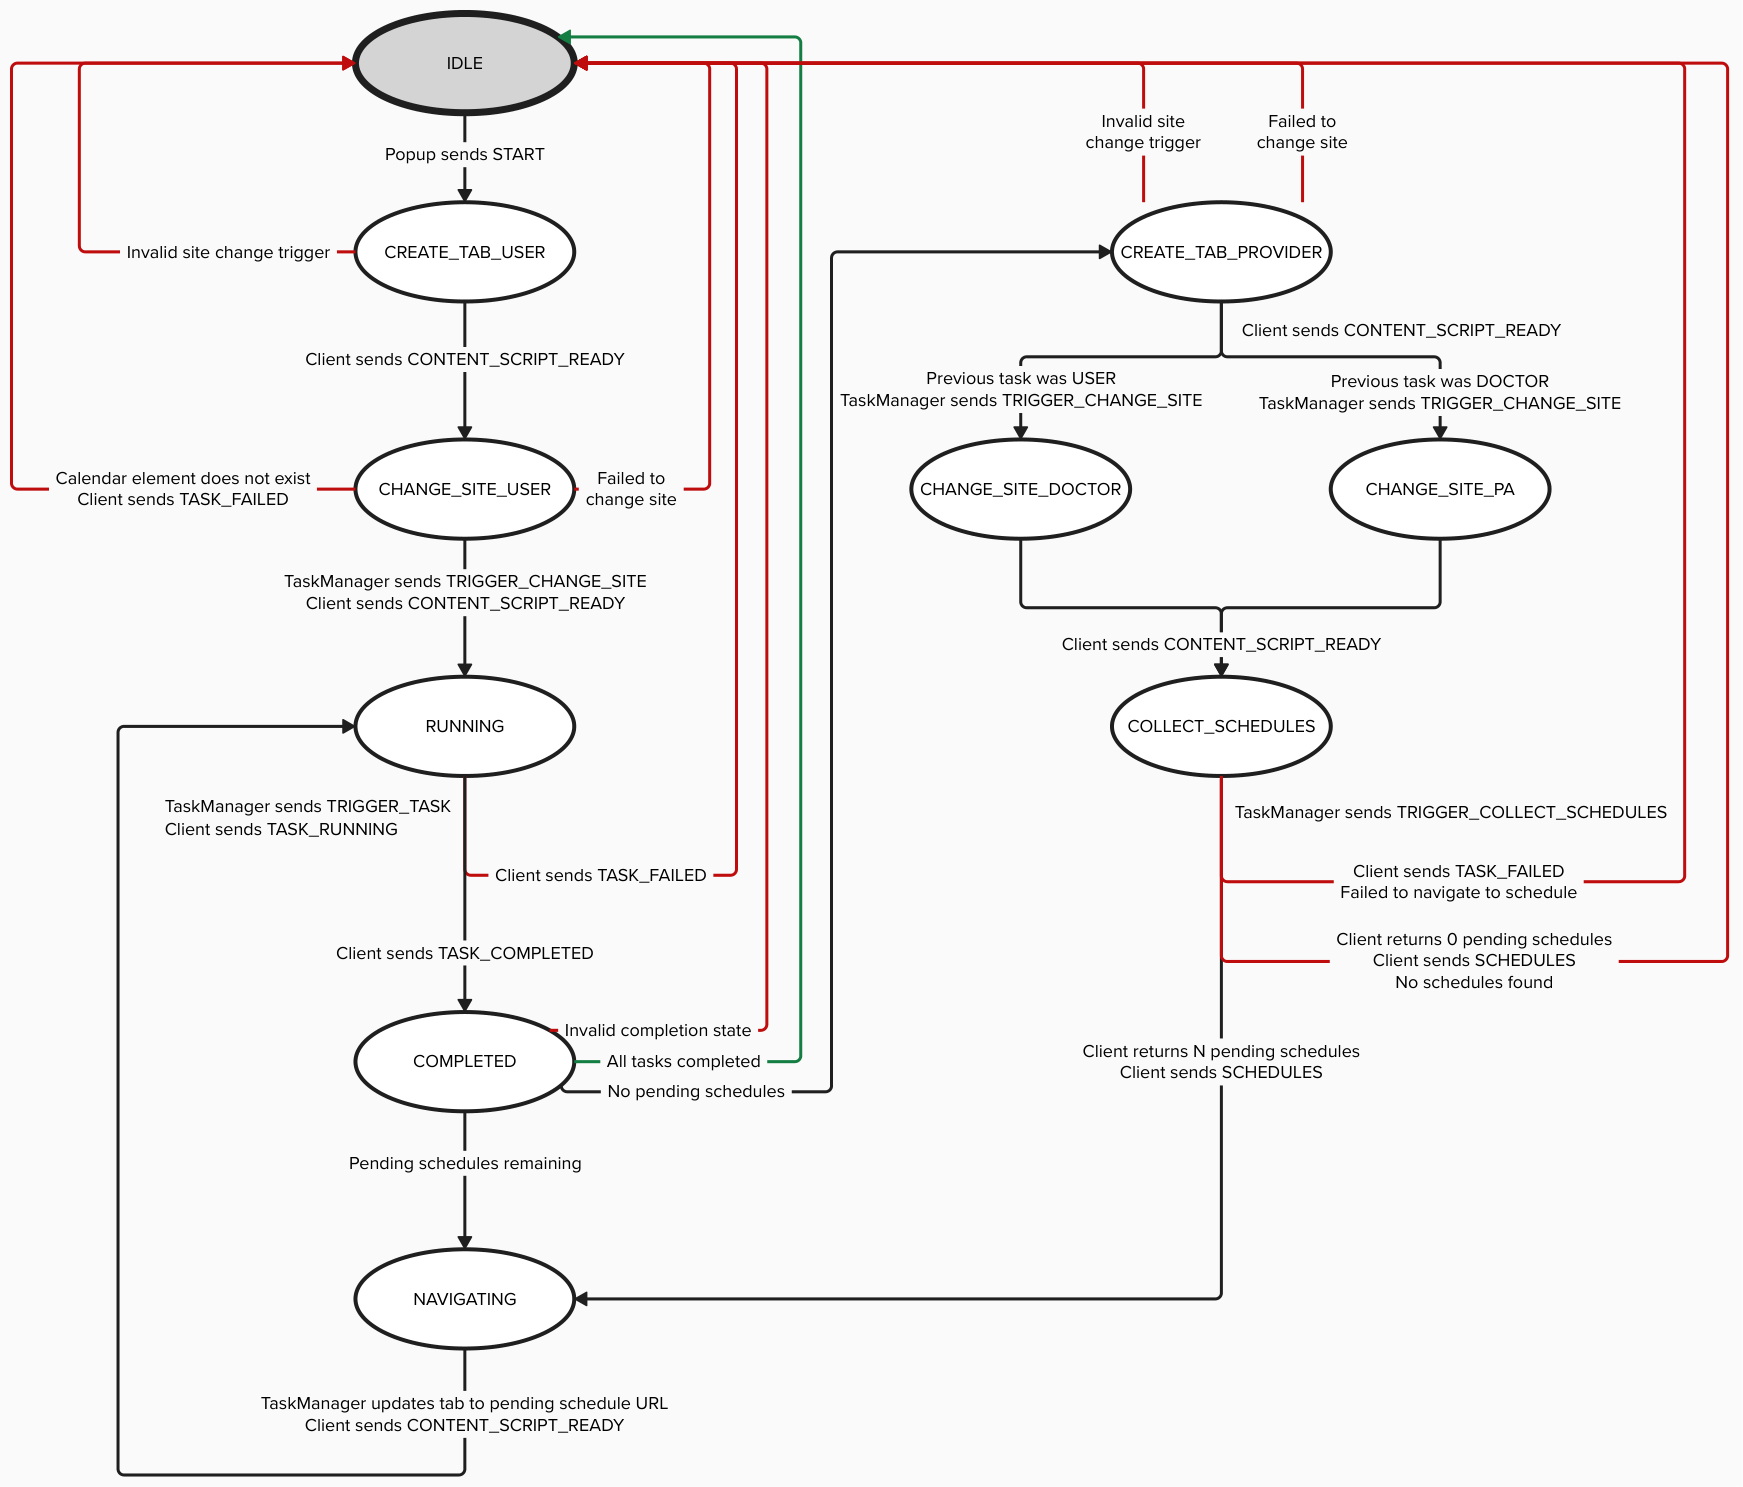
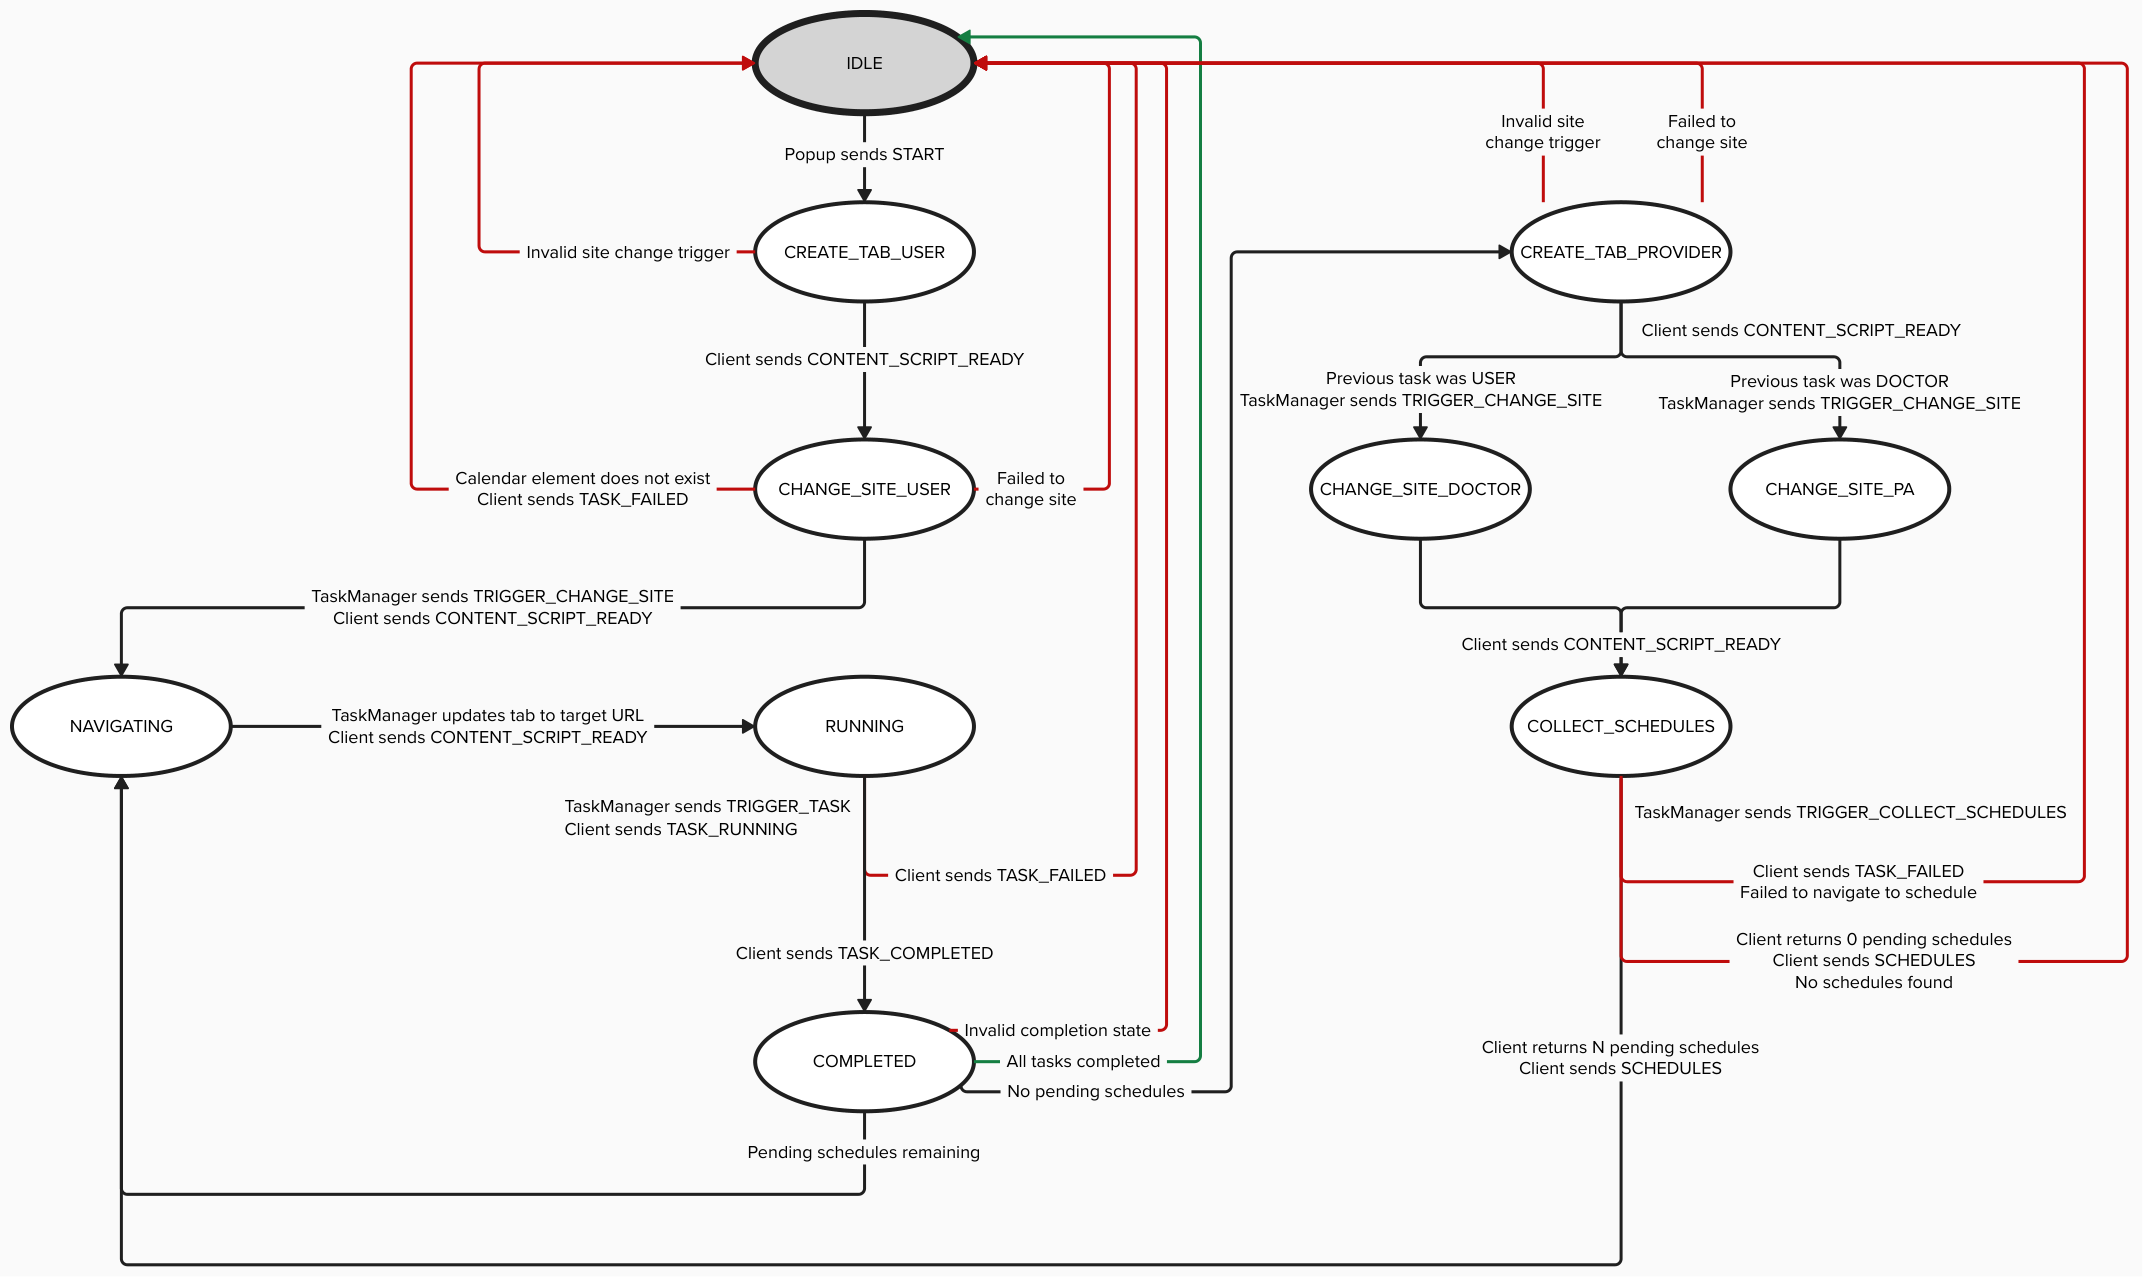
bugfix to only scrape main schedule for user shifts, update workflow image

diff --git a/src/shiftgen/TaskManager.js b/src/shiftgen/TaskManager.js
@@ -34,8 +34,9 @@ export class TaskManager {
           } else if (this.state === STATE.CREATE_TAB_PROVIDER) {
             this.triggerChangeSite(taskId, sender.tab.id);
           } else if (this.state === STATE.CHANGE_SITE_USER) {
-            this.state = STATE.RUNNING;
-            this.triggerTask(TASKS.USER.id, sender.tab.id)
+            this.state = STATE.NAVIGATING;
+            const url = await this.getTargetUrl();
+            this.triggerNavigation(taskId, sender.tab.id, url);
           } else if (this.state === STATE.CHANGE_SITE_PA) {
             this.state = STATE.COLLECT_SCHEDULES;
             this.triggerCollectSchedules(TASKS.PA.id, sender.tab.id);
@@ -94,15 +95,7 @@ export class TaskManager {
     this.pendingSchedules = [];
     await chrome.storage.local.set({ shifts: {} });
 
-    const localStorage = await chrome.storage.local.get(["target_month", "target_year"])
-    const targetMonth = localStorage.target_month;
-    const targetYear = localStorage.target_year;
-    const date = new Date(`${targetMonth} 1, ${targetYear}`);
-    const month = date.getMonth() + 1;
-
-    // https://www.shiftgen.com/member/multi_site_schedule?month_id=10&year_id=2025
-    const url = TASKS.USER.url + `?month_id=${month}&year_id=${targetYear}`
-    this.createTab(TASKS.USER.id, url);
+    this.createTab(TASKS.USER.id, TASKS.USER.url);
   }
 
   /**
@@ -221,7 +214,7 @@ export class TaskManager {
    */
   handlePendingSchedules(taskId, tabId) {
     const scheduleUrl = this.pendingSchedules.pop();
-    this.triggerScheduleNav(taskId, tabId, scheduleUrl);
+    this.triggerNavigation(taskId, tabId, scheduleUrl);
   }
 
   /**
@@ -308,12 +301,12 @@ export class TaskManager {
   }
 
   /**
-   * Triggers a navigation to the target schedule
+   * Triggers a navigation to the target URL
    * @param {number} taskId Task ID
    * @param {number} tabId Tab ID
    * @param {string} url URL to set the tab with Tab ID to
    */
-  triggerScheduleNav(taskId, tabId, url) {
+  triggerNavigation(taskId, tabId, url) {
     chrome.tabs.update(tabId, { url: url });
 
     this.taskStates[taskId] = {
@@ -341,5 +334,21 @@ export class TaskManager {
     };
 
     console.log(`Task ${taskId} triggered to collect schedules in tab ${tabId}`);
+  }
+
+  /**
+   * @brief Gets the URL for the target month and year currently in local storage
+   * @returns Target month and year URL
+   */
+  async getTargetUrl() {
+    const localStorage = await chrome.storage.local.get(["target_month", "target_year"])
+    const targetMonth = localStorage.target_month;
+    const targetYear = localStorage.target_year;
+    const date = new Date(`${targetMonth} 1, ${targetYear}`);
+    const month = date.getMonth() + 1;
+
+    // https://www.shiftgen.com/member/multi_site_schedule?month_id=10&year_id=2025
+    const url = TASKS.USER.url + `?month_id=${month}&year_id=${targetYear}`
+    return url;
   }
 }

diff --git a/src/shiftgen/Scraper.js b/src/shiftgen/Scraper.js
@@ -216,8 +216,12 @@ export class Scraper {
    */
   getAllShifts() {
     let shifts = [];
-
-    const shiftCells = document.querySelectorAll("#calendar .shift-cell");
+    let shiftCells = []
+    if (this.taskId === TASKS.USER.id) {
+      shiftCells = document.querySelectorAll(".flex-1.p-4.overflow-scroll #calendar .shift-cell");
+    } else {
+      shiftCells = document.querySelectorAll("#calendar .shift-cell");
+    }
     for (let cell of shiftCells) {
       const s = this.parseShiftCell(cell);
       if (s !== undefined) {
@@ -353,12 +357,13 @@ export class Scraper {
   }
 
   /**
-   * @brief Checks the existence of the calendar element. If it doesn't exist,
-   * then then a failure should be signaled to the TaskManager.
+   * @brief Checks the existence of the calendar element on the user's multi
+   * site schedule. If it doesn't exist, then then a failure should be signaled
+   * to the TaskManager.
    * @returns True if calendar exists, false otherwise
    */
   checkCalendarExistence() {
-    if (document.querySelector("#calendar") === null) {
+    if (document.querySelector(".flex-1.p-4.overflow-scroll #calendar") === null) {
       console.error(`Task ${this.taskId} failed:`, "No user shifts available");
       chrome.runtime.sendMessage({
         type: 'TASK_FAILED',
